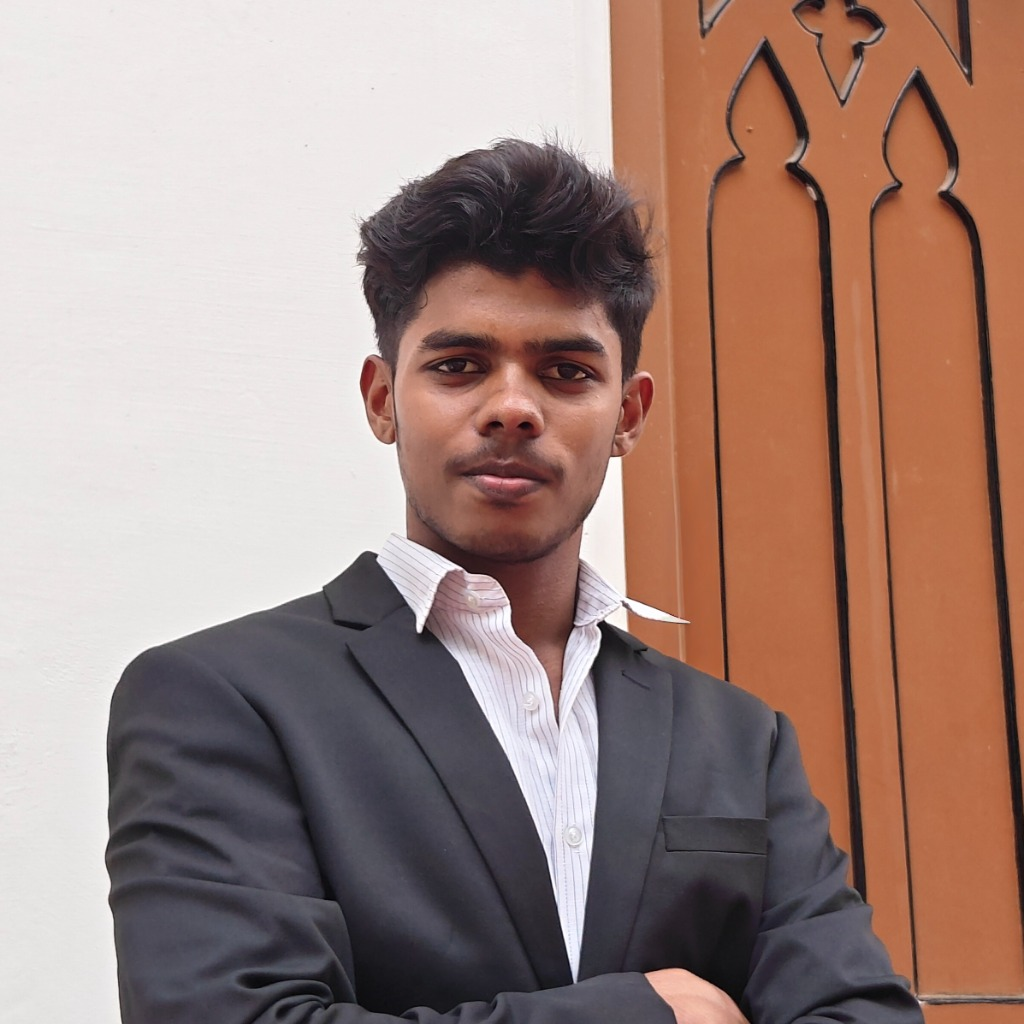
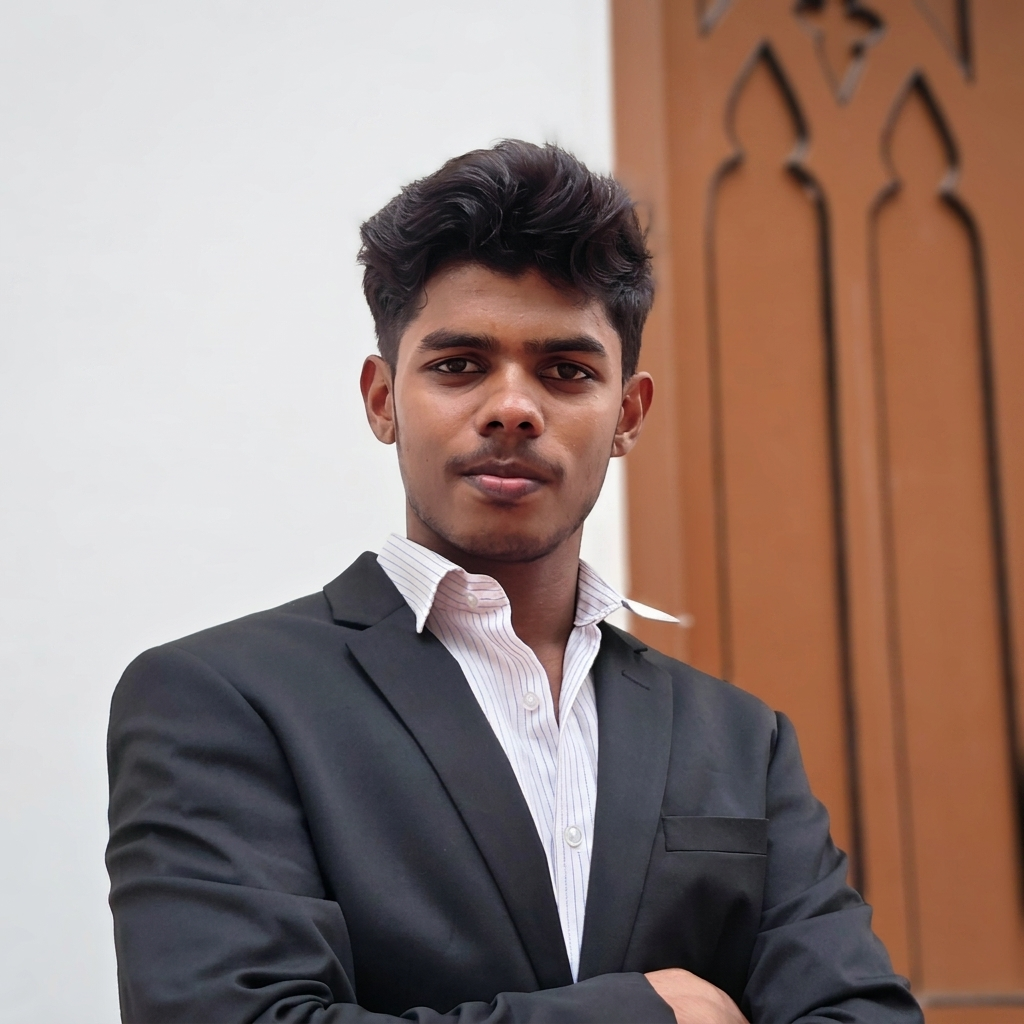
Apply portfolio updates while retaining photo floating emojis

diff --git a/src/components/Hero.tsx b/src/components/Hero.tsx
@@ -57,8 +57,8 @@ function CountUp({ target, suffix = '', prefix = '', decimals = 0, duration = 10
 
 const stats = [
   { value: 96.25, decimals: 2, suffix: '%', label: 'Class XII Score', delay: 700  },
-  { value: 3,     decimals: 0, suffix: '',  label: 'Internships',      delay: 850  },
-  { value: 10,    decimals: 0, suffix: '+', label: 'Yrs Tang Soo Do',  delay: 1000 },
+  { value: 8.75,  decimals: 2, suffix: '',  label: 'College CGPA',     delay: 850  },
+  { value: 3,     decimals: 0, suffix: '',  label: 'Internships',      delay: 1000 },
 ];
 
 export default function Hero({ photoSrc }: { photoSrc?: string }) {
